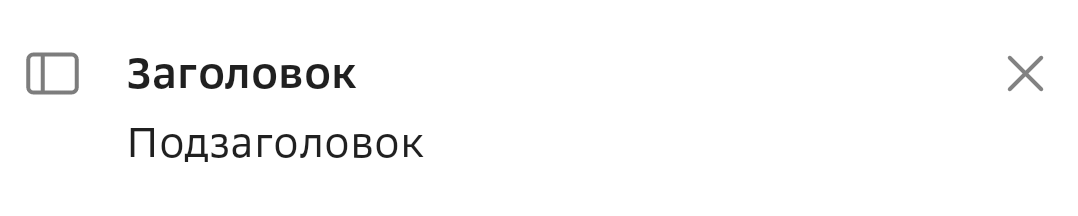
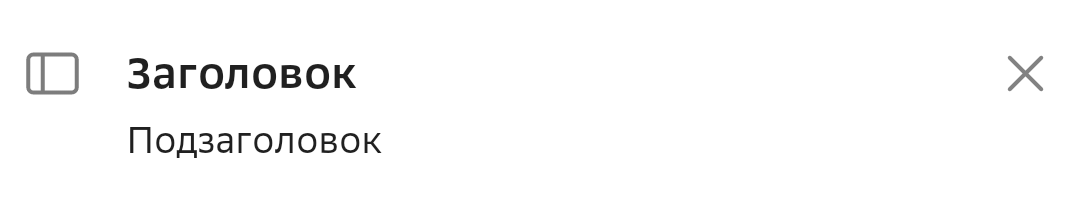
fix subtitle styles

diff --git a/tokens/sdds.serv.compose/src/main/kotlin/com/sdds/serv/styles/aiheader/AiHeaderStyles.kt b/tokens/sdds.serv.compose/src/main/kotlin/com/sdds/serv/styles/aiheader/AiHeaderStyles.kt
@@ -194,7 +194,7 @@ public val AiHeader.S: WrapperAiHeaderS
     get() = AiHeaderStyle.builder(this)
         .invariantProps
         .titleStyle(SddsServTheme.typography.bodySBold)
-        .subtitleStyle(SddsServTheme.typography.bodySNormal)
+        .subtitleStyle(SddsServTheme.typography.bodyXsNormal)
         .dimensions {
             paddingTop(6.0.dp)
             paddingBottom(6.0.dp)
@@ -214,7 +214,7 @@ public val AiHeader.M: WrapperAiHeaderM
     get() = AiHeaderStyle.builder(this)
         .invariantProps
         .titleStyle(SddsServTheme.typography.bodyMBold)
-        .subtitleStyle(SddsServTheme.typography.bodyMNormal)
+        .subtitleStyle(SddsServTheme.typography.bodySNormal)
         .dimensions {
             paddingTop(8.0.dp)
             paddingBottom(8.0.dp)
@@ -234,7 +234,7 @@ public val AiHeader.L: WrapperAiHeaderL
     get() = AiHeaderStyle.builder(this)
         .invariantProps
         .titleStyle(SddsServTheme.typography.bodyLBold)
-        .subtitleStyle(SddsServTheme.typography.bodyLNormal)
+        .subtitleStyle(SddsServTheme.typography.bodyMNormal)
         .dimensions {
             paddingTop(8.0.dp)
             paddingBottom(8.0.dp)
@@ -254,7 +254,7 @@ public val AiHeader.Xl: WrapperAiHeaderXl
     get() = AiHeaderStyle.builder(this)
         .invariantProps
         .titleStyle(SddsServTheme.typography.bodyLBold)
-        .subtitleStyle(SddsServTheme.typography.bodyLNormal)
+        .subtitleStyle(SddsServTheme.typography.bodyMNormal)
         .dimensions {
             paddingTop(8.0.dp)
             paddingBottom(8.0.dp)
@@ -316,7 +316,7 @@ public val AiHeader.H3: WrapperAiHeaderH3
     get() = AiHeaderStyle.builder(this)
         .invariantProps
         .titleStyle(SddsServTheme.typography.headerH3Bold)
-        .subtitleStyle(SddsServTheme.typography.bodyMNormal)
+        .subtitleStyle(SddsServTheme.typography.bodyLNormal)
         .dimensions {
             paddingStart(8.0.dp)
             paddingEnd(8.0.dp)